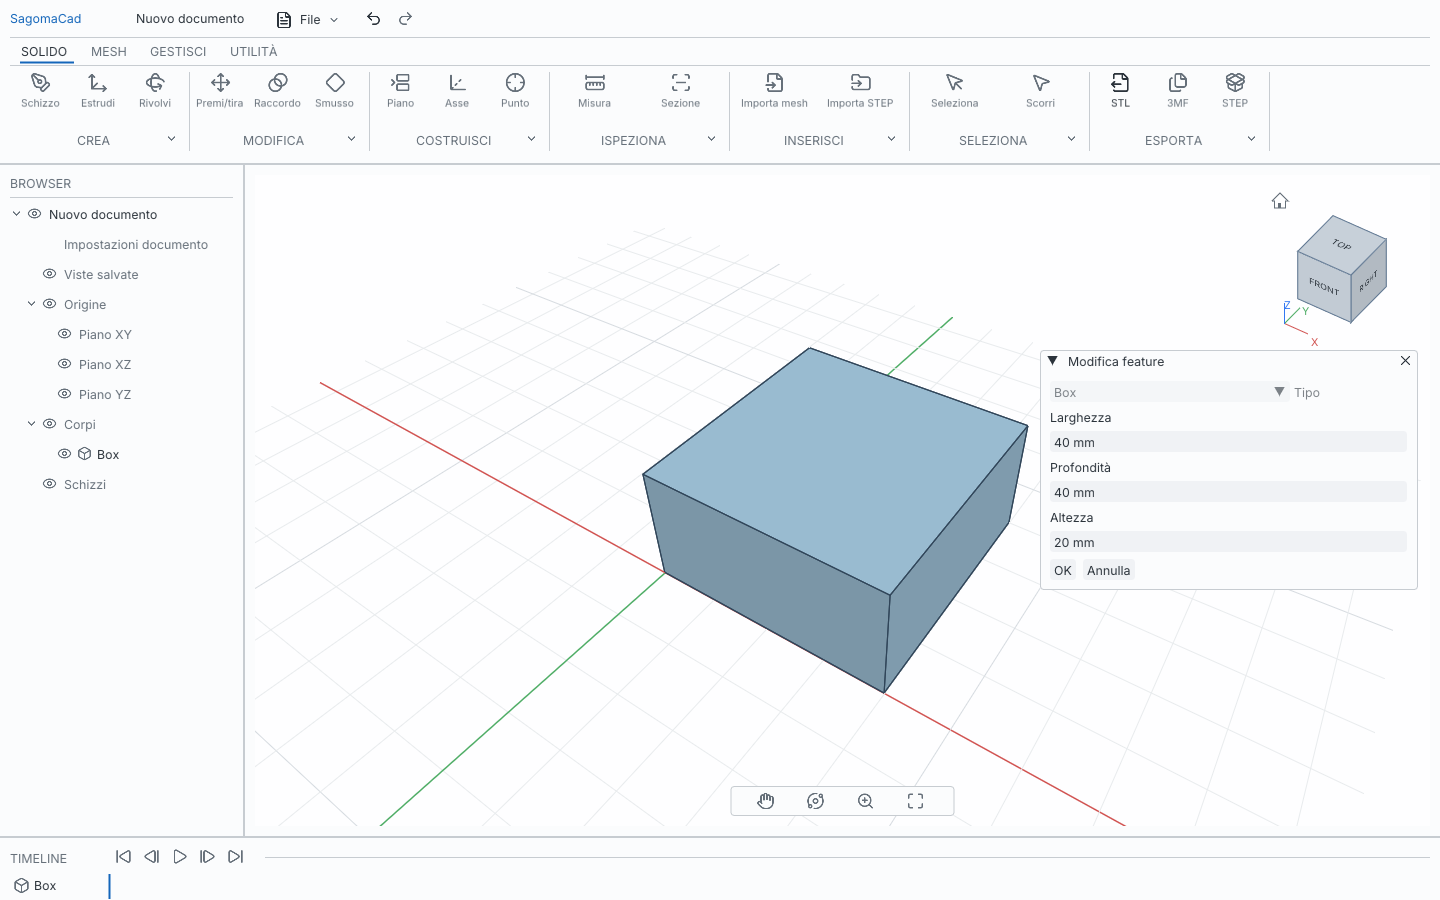
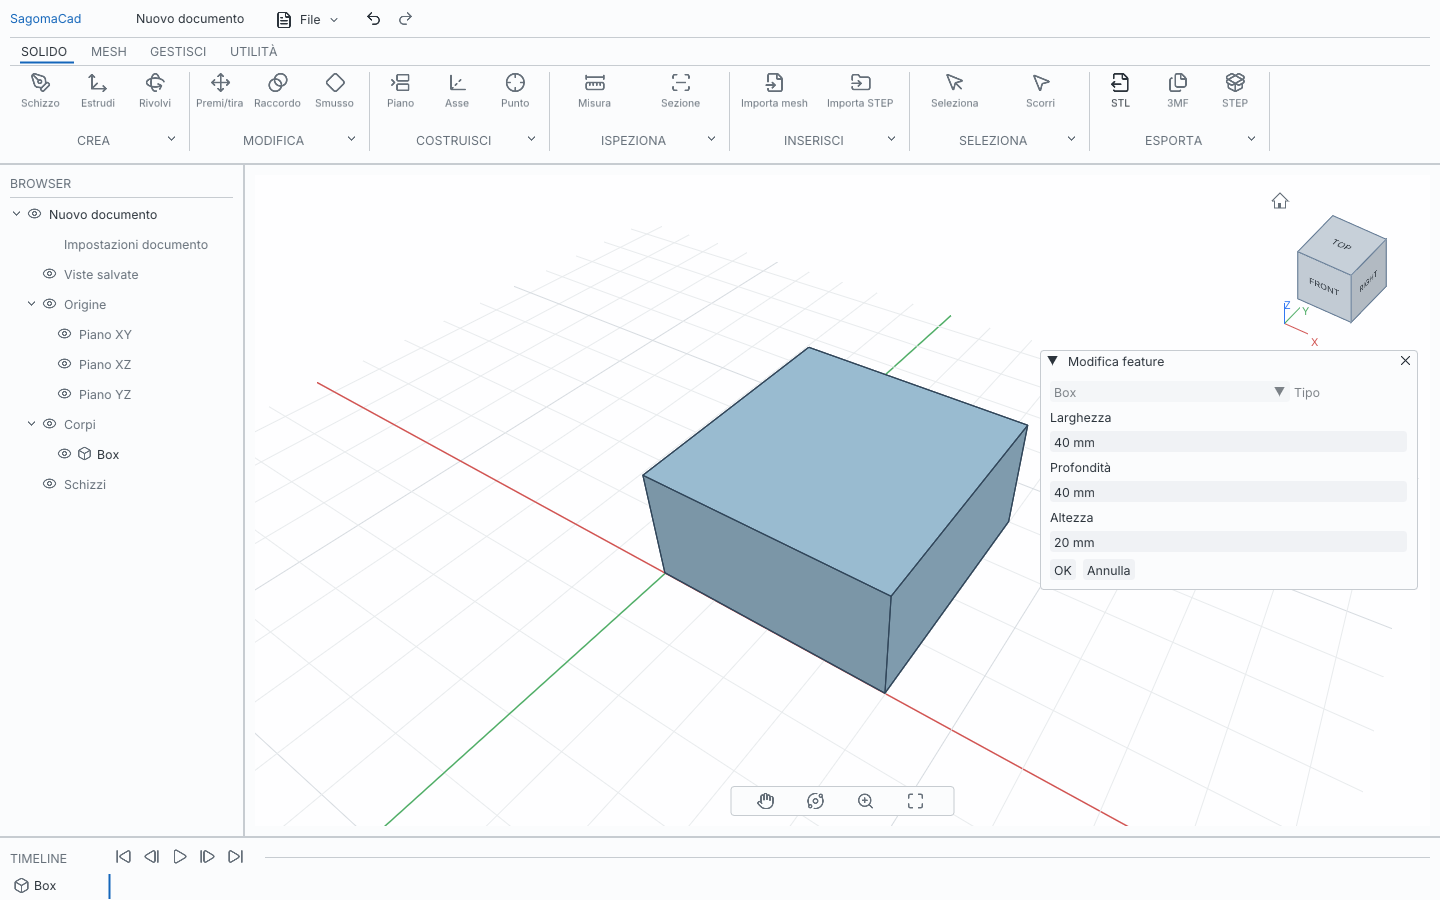
Animate view cube navigation and separate hover visuals from hitboxes

diff --git a/tests/view_cube_interaction.cpp b/tests/view_cube_interaction.cpp
@@ -27,7 +27,7 @@ int main(int argc,char** argv) {
             ImGui::GetIO().AddMousePosEvent(float(p.x),float(p.y));
             ImGui::GetIO().AddMouseButtonEvent(ImGuiMouseButton_Left,down); shell.render();
         };
-        auto select=[&](ui::CubeKind kind,kernel::Vec3 direction={}) {
+        auto select=[&](ui::CubeKind kind,kernel::Vec3 direction={},bool finish=true) {
             const auto cube=layout(); ui::CubePoint target{}; bool found=false;
             for (const auto& control:cube.controls) if (control.kind==kind) { target=control.center; found=true; }
             for (const auto& part:cube.parts)
@@ -36,7 +36,14 @@ int main(int argc,char** argv) {
                     for (const auto p:part.polygon) { target.x+=p.x/part.polygon.size(); target.y+=p.y/part.polygon.size(); }
                     found=true; break;
                 }
-            require(found); mouse(target,false); mouse(target,true); mouse(target,false); shell.render();
+            require(found); mouse(target,false); mouse(target,true);
+            const auto before=shell.state().camera;
+            mouse(target,false);
+            require(shell.state().view_transition.active);
+            require(shell.state().camera.yaw==before.yaw && shell.state().camera.pitch==before.pitch);
+            require(shell.state().camera.target.x==before.target.x && shell.state().camera.distance==before.distance);
+            if (finish) shell.state().view_transition.advance(shell.state().camera,1.0);
+            shell.render();
         };
         auto screenshot=[&](const char* name) {
             if (argc<2) return;
@@ -44,7 +51,12 @@ int main(int argc,char** argv) {
             std::string error; require(shell.screenshot(path.string(),error));
         };
         ImGui::GetIO().AddMousePosEvent(500,500); shell.render(); screenshot("iso");
-        select(ui::CubeKind::Face,{0,0,1});
+        const auto before_transition=shell.state().camera;
+        select(ui::CubeKind::Face,{0,0,1},false);
+        shell.state().view_transition.advance(shell.state().camera,theme.cube.transition_duration*0.5);
+        require(shell.state().view_transition.active && shell.state().camera.pitch>before_transition.pitch && shell.state().camera.pitch<1.5707963267948966);
+        ImGui::GetIO().AddMousePosEvent(500,500); shell.render(); screenshot("transition");
+        shell.state().view_transition.advance(shell.state().camera,1.0); shell.render();
         require(near(shell.state().camera.forward().z,-1));
         ImGui::GetIO().AddMousePosEvent(500,500); shell.render(); screenshot("top");
         select(ui::CubeKind::Clockwise); require(near(shell.state().camera.roll,1.5707963267948966));
@@ -65,7 +77,10 @@ int main(int argc,char** argv) {
         }
         mouse(edge,false); shell.render(); screenshot("edge-hover");
         const auto before=shell.state().camera;
-        mouse(edge,true); mouse({edge.x+25,edge.y+15},true); mouse({edge.x+25,edge.y+15},false);
+        auto destination=before; destination.look_from({0,0,1});
+        shell.state().view_transition.begin(before,destination,theme.cube.transition_duration);
+        mouse(edge,true); require(!shell.state().view_transition.active);
+        mouse({edge.x+25,edge.y+15},true); mouse({edge.x+25,edge.y+15},false);
         require(!near(shell.state().camera.yaw,before.yaw) && !near(shell.state().camera.pitch,before.pitch));
         require(shell.state().camera.target.x==before.target.x && !shell.state().cube_interaction.pressed);
         require(near(shell.state().camera.roll,0) && near(shell.state().camera.right().z,0));

diff --git a/src/ui/view_cube.cpp b/src/ui/view_cube.cpp
@@ -18,13 +18,25 @@ bool contains(const std::vector<CubePoint>& polygon,CubePoint p) {
     }
     return !(positive && negative);
 }
+bool near_polygon(const std::vector<CubePoint>& polygon,CubePoint p,double padding) {
+    if (contains(polygon,p)) return true;
+    for (std::size_t i=0;i<polygon.size();++i) {
+        const auto a=polygon[i],b=polygon[(i+1)%polygon.size()];
+        const double dx=b.x-a.x,dy=b.y-a.y,length=dx*dx+dy*dy;
+        const double t=length>0?std::clamp(((p.x-a.x)*dx+(p.y-a.y)*dy)/length,0.0,1.0):0;
+        if (std::hypot(p.x-a.x-dx*t,p.y-a.y-dy*t)<=padding) return true;
+    }
+    return false;
+}
 }
 CubePoint cube_project(Vec point,const Camera& camera,const CubeLayout& layout,const ViewCubeTokens& t,double scale) {
     return {layout.origin.x+t.center_x*scale+dot(point,camera.right())*layout.factor,
             layout.origin.y+t.center_y*scale-dot(point,camera.up())*layout.factor};
 }
 CubeLayout cube_layout(const Camera& camera,CubePoint origin,const ViewCubeTokens& t,double scale) {
-    CubeLayout result; result.origin=origin; result.factor=t.cube_size*t.projection_scale*scale; result.control_radius=t.control_size*scale*0.5;
+    CubeLayout result; result.origin=origin; result.factor=t.cube_size*t.projection_scale*scale;
+    result.hit_padding=t.hit_padding*scale;
+    result.control_radius=(t.control_size*0.5+t.hit_padding)*scale;
     const Vec eye=mul(camera.forward(),-1);
     const double inset=1-t.hit_band;
     auto make_part=[&](CubeKind kind,Vec normal,const std::vector<Vec>& vertices,const char* label,Vec u,Vec v,double light) {
@@ -48,7 +60,16 @@ CubeLayout cube_layout(const Camera& camera,CubePoint origin,const ViewCubeToken
             std::vector<Vec> vertices;
             for (const auto [x,y]:std::array<std::array<double,2>,4>{{{x0,y0},{x1,y0},{x1,y1},{x0,y1}}})
                 vertices.push_back(add(n,add(mul(u,x),mul(v,y))));
-            return make_part(kind,direction,vertices,label,u,v,facing);
+            auto item=make_part(kind,direction,vertices,label,u,v,facing);
+            auto visual=[&](double value) {
+                if (kind==CubeKind::Face) return value;
+                if (std::abs(value-inset)<1e-8) return 1-double(t.highlight_band);
+                if (std::abs(value+inset)<1e-8) return double(t.highlight_band)-1;
+                return value;
+            };
+            for (const auto [x,y]:std::array<std::array<double,2>,4>{{{x0,y0},{x1,y0},{x1,y1},{x0,y1}}})
+                item.highlight.push_back(cube_project(add(n,add(mul(u,visual(x)),mul(v,visual(y)))),camera,result,t,scale));
+            return item;
         };
         result.faces.push_back(patch(CubeKind::Face,n,-1,1,-1,1));
         result.parts.push_back(patch(CubeKind::Face,n,-inset,inset,-inset,inset));
@@ -78,7 +99,8 @@ CubeHit cube_hit(const CubeLayout& layout,CubePoint point) {
         if (std::abs(control.center.x-point.x)<=layout.control_radius && std::abs(control.center.y-point.y)<=layout.control_radius)
             return {control.kind,{}};
     for (const auto kind:{CubeKind::Corner,CubeKind::Edge,CubeKind::Face})
-        for (const auto& part:layout.parts) if (part.hit.kind==kind && contains(part.polygon,point)) return part.hit;
+        for (const auto& part:layout.parts)
+            if (part.hit.kind==kind && near_polygon(part.polygon,point,kind==CubeKind::Face?0:layout.hit_padding)) return part.hit;
     return {};
 }
 void cube_apply(Camera& camera,CubeHit hit) {

diff --git a/apps/common/view_cube_widget.cpp b/apps/common/view_cube_widget.cpp
@@ -20,7 +20,7 @@ void face_text(ImDrawList* draw,const ui::CubePart& part,const ui::Camera& camer
     const auto text_size=font->CalcTextSizeA(font_size,1000,0,part.label);
     const auto center=point(ui::cube_project(part.center,camera,layout,tokens,scale));
     const ImVec2 start={center.x-text_size.x*0.5f,center.y-text_size.y*0.5f};
-    const double units=std::min(1/layout.factor,(2-2*tokens.hit_band)*0.9/std::max(1.0f,text_size.x));
+    const double units=std::min(1/layout.factor,(2-2*tokens.label_inset)*0.9/std::max(1.0f,text_size.x));
     const int first=draw->VtxBuffer.Size;
     draw->AddText(font,font_size,start,ink,part.label);
     for (int i=first;i<draw->VtxBuffer.Size;++i) {
@@ -68,22 +68,23 @@ void control_icon(ImDrawList* draw,const ui::CubeControl& control,const ui::Them
     }
 }
 }
-bool draw_view_cube_widget(ImDrawList* draw,ui::Camera& camera,ui::CubeInteraction& interaction,
+ui::CubeHit draw_view_cube_widget(ImDrawList* draw,ui::Camera& camera,ui::CubeInteraction& interaction,ui::CameraTransition& transition,
                            ui::CubePoint origin,const ui::Theme& theme,float scale,bool interactive) {
     auto layout=ui::cube_layout(camera,origin,theme.cube,scale);
     const auto& io=ImGui::GetIO();
     auto hit=interactive?ui::cube_hit(layout,{io.MousePos.x,io.MousePos.y}):ui::CubeHit{};
     if (interactive && hit.kind!=ui::CubeKind::None && ImGui::IsMouseClicked(ImGuiMouseButton_Left)) {
+        transition.cancel();
         interaction.pressed=true; interaction.dragged=false; interaction.press=hit;
     }
     if (interaction.pressed && geometry(interaction.press.kind) && ImGui::IsMouseDragging(ImGuiMouseButton_Left)) {
         interaction.dragged=true;
         camera.orbit(io.MouseDelta.x,io.MouseDelta.y);
     }
-    bool home=false;
+    ui::CubeHit action;
     if (interaction.pressed && ImGui::IsMouseReleased(ImGuiMouseButton_Left)) {
         if (!interaction.dragged && same(hit,interaction.press)) {
-            ui::cube_apply(camera,hit); home=hit.kind==ui::CubeKind::Home;
+            action=hit;
         }
         interaction={};
     }
@@ -112,7 +113,7 @@ bool draw_view_cube_widget(ImDrawList* draw,ui::Camera& camera,ui::CubeInteracti
         face_text(draw,part,camera,layout,theme.cube,scale,color(theme.text));
     }
     for (const auto& part:layout.parts) if (same(hit,part.hit)) {
-        std::vector<ImVec2> polygon; for (const auto p:part.polygon) polygon.push_back(point(p));
+        std::vector<ImVec2> polygon; for (const auto p:part.highlight) polygon.push_back(point(p));
         draw->AddConvexPolyFilled(polygon.data(),int(polygon.size()),color(theme.cube.hover));
     }
     for (const auto& control:layout.controls) control_icon(draw,control,theme,scale,hit.kind==control.kind);
@@ -125,6 +126,6 @@ bool draw_view_cube_widget(ImDrawList* draw,ui::Camera& camera,ui::CubeInteracti
         if (hit.kind==ui::CubeKind::Up || hit.kind==ui::CubeKind::Down || hit.kind==ui::CubeKind::Left || hit.kind==ui::CubeKind::Right) hint="Passa alla faccia adiacente";
         if (!interaction.pressed) ImGui::SetTooltip("%s",hint);
     }
-    return home;
+    return action;
 }
 }

diff --git a/apps/common/shell.cpp b/apps/common/shell.cpp
@@ -225,6 +225,7 @@ bool Shell::poll() {
 void Shell::draw() {
     const auto& t = ui::theme(state_.theme == "light");
     const float z = static_cast<float>(scale_);
+    state_.view_transition.advance(state_.camera,ImGui::GetIO().DeltaTime);
     const ImVec2 screen = ImGui::GetIO().DisplaySize;
     const auto& input=ImGui::GetIO();
     if ((input.KeyCtrl && ImGui::IsKeyPressed(ImGuiKey_K)) ||
@@ -502,6 +503,8 @@ void Shell::draw() {
         const bool canvas_hovered=ImGui::IsItemHovered();
         if (canvas_hovered && !over_navigation && !over_cube && !state_.cube_interaction.pressed) {
             const auto& io=ImGui::GetIO();
+            if (io.MouseWheel!=0 || ImGui::IsMouseDragging(ImGuiMouseButton_Middle) ||
+                (state_.navigation_mode>=0 && ImGui::IsMouseDragging(ImGuiMouseButton_Left))) state_.view_transition.cancel();
             if (io.MouseWheel!=0) state_.camera.zoom(io.MouseWheel,io.MousePos.x,io.MousePos.y,viewport);
             if (ImGui::IsMouseDragging(ImGuiMouseButton_Middle)) {
                 if (io.KeyShift) state_.camera.orbit(io.MouseDelta.x,io.MouseDelta.y);
@@ -558,9 +561,17 @@ void Shell::draw() {
             const auto origin=state_.camera.project({0,0,0},viewport);
             if (origin.visible) dl->AddCircleFilled({float(origin.x),float(origin.y)},2.5f*z,packed(t.accent));
         }
-        if (draw_view_cube_widget(dl,state_.camera,state_.cube_interaction,cube_origin,t,z,canvas_hovered)) {
-            if (surfaces_.empty()) { state_.camera.target={}; state_.camera.distance=140; }
-            else fit_camera();
+        const auto cube_action=draw_view_cube_widget(dl,state_.camera,state_.cube_interaction,state_.view_transition,cube_origin,t,z,canvas_hovered);
+        if (cube_action.kind!=ui::CubeKind::None) {
+            const auto before=state_.camera;
+            ui::cube_apply(state_.camera,cube_action);
+            if (cube_action.kind==ui::CubeKind::Home) {
+                if (surfaces_.empty()) { state_.camera.target={}; state_.camera.distance=ui::Camera{}.distance; }
+                else fit_camera();
+            }
+            const auto destination=state_.camera;
+            state_.camera=before;
+            state_.view_transition.begin(before,destination,t.cube.transition_duration);
         }
         dl->AddRectFilled(nav_a,nav_b,packed(t.panel),t.rounding*z);
         dl->AddRect(nav_a,nav_b,packed(t.border),t.rounding*z);
@@ -572,7 +583,7 @@ void Shell::draw() {
             const bool clicked=ImGui::InvisibleButton("navigation",{40*z,t.nav_height*z-4*z});
             const bool hovered=ImGui::IsItemHovered();
             if (clicked) {
-                if (i==3) fit_camera();
+                if (i==3) { state_.view_transition.cancel(); fit_camera(); }
                 else state_.navigation_mode=state_.navigation_mode==i?-1:i;
             }
             if (hovered) ImGui::SetTooltip("%s",nav_labels[i]);

diff --git a/tests/camera.cpp b/tests/camera.cpp
@@ -1,6 +1,7 @@
 #include "ui/camera.hpp"
-#include <stdexcept>
-#define require(condition) do { if (!(condition)) throw std::runtime_error(#condition); } while (false)
+#include <cstdio>
+#include <cstdlib>
+#define require(condition) do { if (!(condition)) { std::fprintf(stderr,"failed: %s\n",#condition); std::exit(1); } } while (false)
 #include <cmath>
 int main() {
     using namespace sagomacad;
@@ -16,4 +17,25 @@ int main() {
     require(std::abs(c.right().x*c.right().x+c.right().y*c.right().y+c.right().z*c.right().z-1)<1e-10);
     require(std::abs(c.up().x*c.forward().x+c.up().y*c.forward().y+c.up().z*c.forward().z)<1e-10);
     c.fit({-20,-20,0},{20,20,20}); require(std::abs(c.distance-120)<1e-8);
+    ui::Camera start,end;
+    start.distance=900; end.look_from({0,0,1}); end.target={20,20,10}; end.distance=120;
+    ui::CameraTransition transition;
+    transition.begin(start,end,0.85); c=start;
+    transition.advance(c,0); require(c.pitch==start.pitch && c.distance==start.distance);
+    transition.advance(c,0.01); require(c.pitch>start.pitch && c.pitch-start.pitch<0.001);
+    transition.advance(c,0.415);
+    require(transition.active && std::abs(c.pitch-(start.pitch+end.pitch)*0.5)<1e-9);
+    require(std::abs(c.target.x-10)<1e-9 && c.distance>120 && c.distance<900 && std::abs(c.roll)<1e-9);
+    const auto midway=c;
+    ui::CameraTransition divided; ui::Camera sampled=start;
+    divided.begin(start,end,0.85);
+    for (int i=0;i<85;++i) divided.advance(sampled,0.005);
+    require(std::abs(sampled.pitch-c.pitch)<1e-9 && std::abs(sampled.distance-c.distance)<1e-9);
+    transition.cancel(); transition.advance(c,1); require(c.pitch==midway.pitch && c.distance==midway.distance);
+    end.look_from({1,0,0}); transition.begin(c,end,0.85); transition.advance(c,0);
+    require(c.pitch==midway.pitch);
+    transition.advance(c,1); require(!transition.active && c.pitch==end.pitch && c.yaw==end.yaw && c.distance==end.distance);
+    start.yaw=3.12413936106985; end=start; end.yaw=-start.yaw;
+    transition.begin(start,end,0.85); transition.advance(c,0.425);
+    require(std::abs(c.yaw-3.141592653589793)<1e-8);
 }

diff --git a/src/ui/camera.cpp b/src/ui/camera.cpp
@@ -59,4 +59,25 @@ void Camera::fit(kernel::Vec3 lo,kernel::Vec3 hi) {
     const double span=std::max({hi.x-lo.x,hi.y-lo.y,hi.z-lo.z,1.0});
     distance=span*3.0;
 }
+void CameraTransition::begin(const Camera& from,const Camera& destination,double duration) {
+    from_=from; destination_=destination; elapsed_=0;
+    duration_=std::isfinite(duration)?std::max(duration,0.001):0.85;
+    active=true;
+}
+void CameraTransition::advance(Camera& camera,double seconds) {
+    if (!active || !std::isfinite(seconds) || seconds<0) return;
+    elapsed_=std::min(duration_,elapsed_+seconds);
+    if (elapsed_==0) { camera=from_; return; }
+    if (elapsed_>=duration_) { camera=destination_; active=false; return; }
+    const double t=elapsed_/duration_;
+    const double eased=t*t*t*(10+t*(-15+6*t));
+    auto blend=[&](double a,double b) { return a+(b-a)*eased; };
+    auto angle=[&](double a,double b) { return a+std::remainder(b-a,6.283185307179586)*eased; };
+    camera=from_;
+    camera.yaw=angle(from_.yaw,destination_.yaw);
+    camera.pitch=blend(from_.pitch,destination_.pitch);
+    camera.roll=angle(from_.roll,destination_.roll);
+    camera.target={blend(from_.target.x,destination_.target.x),blend(from_.target.y,destination_.target.y),blend(from_.target.z,destination_.target.z)};
+    camera.distance=std::exp(blend(std::log(std::max(0.05,from_.distance)),std::log(std::max(0.05,destination_.distance))));
+}
 }

diff --git a/tests/view_cube.cpp b/tests/view_cube.cpp
@@ -39,6 +39,18 @@ int main() {
             require(near(std::abs(p.x-t.center_x),square.factor));
             require(near(std::abs(p.y-t.center_y),square.factor));
         }
+        auto area=[](const std::vector<ui::CubePoint>& polygon) {
+            double value=0;
+            for (std::size_t i=0;i<polygon.size();++i) {
+                const auto a=polygon[i],b=polygon[(i+1)%polygon.size()]; value+=a.x*b.y-a.y*b.x;
+            }
+            return std::abs(value)*0.5;
+        };
+        for (const auto& part:square.parts)
+            if (part.hit.kind==ui::CubeKind::Edge || part.hit.kind==ui::CubeKind::Corner)
+                require(area(part.highlight)<area(part.polygon));
+        const auto outside=ui::cube_hit(square,{t.center_x+square.factor+2,t.center_y});
+        require(outside.kind==ui::CubeKind::Edge && outside.direction.x==1 && outside.direction.z==1);
         ui::Camera camera; camera.look_from({0,0,1});
         ui::cube_apply(camera,{ui::CubeKind::Right,{}}); direction(camera,{1,0,0});
         ui::cube_apply(camera,{ui::CubeKind::Left,{}}); direction(camera,{0,0,1});

diff --git a/src/ui/theme.hpp b/src/ui/theme.hpp
@@ -29,7 +29,9 @@ inline constexpr ParameterTableLabels parameter_table_labels {
 };
 struct ViewCubeTokens {
     float widget_size=156.0f, cube_size=76.0f, center_x=78.0f, center_y=84.0f;
-    float hit_band=0.18f, control_size=20.0f, label_size=13.0f, line_width=1.0f;
+    float hit_band=0.26f, highlight_band=0.12f, hit_padding=4.0f;
+    float transition_duration=0.85f;
+    float control_size=20.0f, label_size=13.0f, label_inset=0.18f, line_width=1.0f;
     float projection_scale=0.42f;
     float axis_length=28.0f, axis_label_gap=5.0f, tooltip_delay=0.6f;
     std::array<float,2> axis_origin{{20,138}};

diff --git a/src/ui/view_cube.hpp b/src/ui/view_cube.hpp
@@ -14,6 +14,7 @@ struct CubeHit {
 struct CubePart {
     CubeHit hit;
     std::vector<CubePoint> polygon;
+    std::vector<CubePoint> highlight;
     kernel::Vec3 center{},u{},v{};
     const char* label=nullptr;
     double light=0;
@@ -24,7 +25,7 @@ struct CubeLayout {
     std::vector<CubePart> parts;
     std::vector<CubeControl> controls;
     CubePoint origin;
-    double factor=1, control_radius=10;
+    double factor=1, control_radius=10, hit_padding=0;
     bool face_aligned=false;
 };
 struct CubeInteraction {

diff --git a/apps/common/view_cube_widget.hpp b/apps/common/view_cube_widget.hpp
@@ -2,6 +2,6 @@
 #include "ui/view_cube.hpp"
 struct ImDrawList;
 namespace sagomacad {
-bool draw_view_cube_widget(ImDrawList* draw,ui::Camera& camera,ui::CubeInteraction& interaction,
+ui::CubeHit draw_view_cube_widget(ImDrawList* draw,ui::Camera& camera,ui::CubeInteraction& interaction,ui::CameraTransition& transition,
                            ui::CubePoint origin,const ui::Theme& theme,float scale,bool interactive);
 }

diff --git a/src/ui/camera.hpp b/src/ui/camera.hpp
@@ -22,4 +22,14 @@ public:
     void home();
     void fit(kernel::Vec3 minimum,kernel::Vec3 maximum);
 };
+class CameraTransition {
+public:
+    bool active=false;
+    void begin(const Camera& from,const Camera& destination,double duration);
+    void advance(Camera& camera,double seconds);
+    void cancel() { active=false; }
+private:
+    Camera from_,destination_;
+    double elapsed_=0,duration_=0;
+};
 }

diff --git a/src/ui/state.hpp b/src/ui/state.hpp
@@ -7,6 +7,7 @@
 namespace sagomacad::ui {
 struct State {
     Camera camera;
+    CameraTransition view_transition;
     CubeInteraction cube_interaction;
     int navigation_mode = -1; // -1: pointer, 0: pan, 1: orbit, 2: zoom
     std::string theme = "light";
